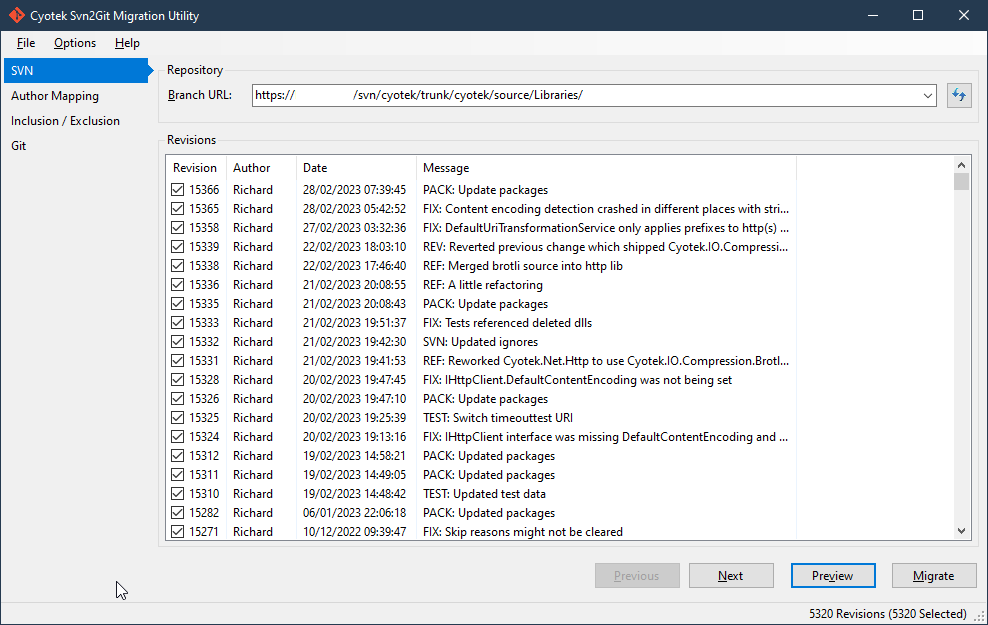
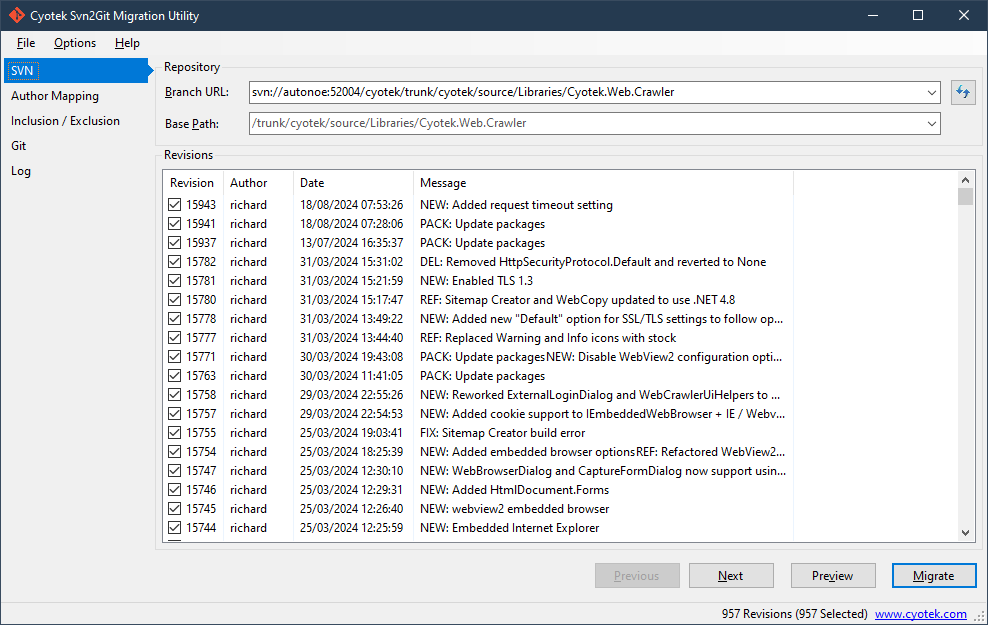
DOCS: Update docs

Changed region(s): [[0.1518, 0.0912, 1.0, 0.9424], [0.7287, 0.9728, 1.0, 1.0], [0.0, 0.2736, 0.0304, 0.304]]

diff --git a/lib/Properties/AssemblyInfo.cs b/lib/Properties/AssemblyInfo.cs
@@ -4,7 +4,7 @@ using System.Runtime.InteropServices;
 
 // Cyotek Svn2Git Migration Utility
 
-// Copyright © 2020-2021 Cyotek Ltd. All Rights Reserved.
+// Copyright © 2020-2024 Cyotek Ltd. All Rights Reserved.
 
 // This work is licensed under the MIT License.
 // See LICENSE.TXT for the full text
@@ -17,11 +17,11 @@ using System.Runtime.InteropServices;
 [assembly: AssemblyConfiguration("")]
 [assembly: AssemblyCompany("Cyotek Ltd")]
 [assembly: AssemblyProduct("Cyotek Svn2Git Migration Utility")]
-[assembly: AssemblyCopyright("Copyright © 2020-2021 Cyotek Ltd. All Rights Reserved.")]
+[assembly: AssemblyCopyright("Copyright © 2020-2024 Cyotek Ltd. All Rights Reserved.")]
 [assembly: AssemblyTrademark("")]
 [assembly: AssemblyCulture("")]
 [assembly: ComVisible(false)]
 [assembly: Guid("df362cb6-2996-4ff3-afc2-dfcef44ed384")]
 [assembly: CLSCompliant(true)]
 [assembly: AssemblyVersion("1.0.0.0")]
-[assembly: AssemblyFileVersion("1.0.1.0")]
+[assembly: AssemblyFileVersion("1.0.2.0")]

diff --git a/README.md b/README.md
@@ -1,22 +1,27 @@
 # Cyotek Svn2Git Migration Utility
 
 This repository hosts a naive utility for creating a Git
-repository from an existing SVN folder, making it useful for
+repository from an existing SVN tree, making it useful for
 breaking a mono SVN Repository into smaller Git repositories.
 
 > This tool is a work in progress that I did for breaking up my
 > own repository. It may not work for all cases, for example if
 > root folders were renamed or moved.
 >
-> It has only received limited testing and is provided AS-IS
+> It has only received limited testing and is provided AS-IS.
 
 ## How does it work?
 
 In the simplest fashion possible - you give it a location in
-SVN, it will enumerate the revisions in that location and will
-check each one out in reverse order and check them into a Git
-repository with the appropriate date, author and log
-information. That is it, nothing fancy.
+SVN, it will enumerate the revisions in that location (and its
+sub folders) and will check each one out in reverse order and
+commit them into a Git repository with the appropriate date,
+author and log information. That is it, nothing fancy.
+
+You are able to specify glob patterns for file includes and
+excludes, which can be useful if you want to exclude files
+originally accidentally committed, or that you simply don't want
+in the new repository.
 
 The code is a little messy, I did start to break it up into more
 reusable and testable components but this work is ongoing.
@@ -27,8 +32,50 @@ reusable and testable components but this work is ongoing.
 
 * Enter the URL of the _remote_ SVN path you want to migrate.
   This will then list all revisions associated with that
-  location
-* Select the revisions you wish to migrate
+  location.
+* Optionally, enter the base path for matching files in the
+  commit, or leave blank to use the auto detected value.
+* Select the revisions you wish to migrate. Revisions that are
+  greyed out have no files matching the base path expression.
+
+> Context-click the list view for **Select All**, **Select
+> None** and **Invert** options.
+
+### More on the Base Path
+
+The migration utility can't tell what files are "affected", and
+so makes a best guess based on the auto detected base path. This
+may not always be appropriate. For example, the below screenshot
+shows some of the files from a very early commit to
+`/cyotek/trunk/cyotek/source/Libraries/Cyotek.Web.Crawler`, but
+not that the path starts with `/trunk/checkout` not
+`/trunk/cyotek` and so these files are ignored.
+
+![An example of an old commit with different paths][basepath1]
+
+> To view the files in a revision, context-click a revision and
+> choose **File List...** from the menu.
+
+Consider a new commit where the paths do match.
+
+![An example of a commit with correct paths][basepath2]
+
+The migration utility allows the base path to be specified, and
+to handle scenarios such as the above it allows glob expressions
+to be used. For example, all files from the two lists above
+could be captured with either of the following patterns.
+
+* `/**/Libraries/Cyotek.Web.Crawler/**/*`
+* `/trunk/checkout/source/Libraries/Cyotek.Web.Crawler/|/trunk/cyotek/source/Libraries/Cyotek.Web.Crawler/`
+
+In the case of the latter pattern, the migration utility will
+automatically add `**/*` to patterns that don't include any glob
+characters.
+
+The revisions list "greys out" any revisions where no files were
+matched, providing a visual clue that something is amiss.
+
+![A mix of revisions][basepath3]
 
 ## Mapping Authors
 
@@ -58,7 +105,7 @@ be excluded.
 
 For example, if you had a folder named `/src/Scratch` in your
 repository which you didn't want migrated, then you could enter
-the glob `/**/Scratch` to the exclusion list.
+the glob `/**/Scratch/**/*` to the exclusion list.
 
 > Don't use backslashes in globs, the migration tool will
 > automatically handle conversion from Windows paths.
@@ -74,9 +121,19 @@ the **Use existing repository** option is unchecked.
 
 If you want to append the commits to an existing repository,
 ensure the folder points to the existing repository and check
-the **Use existing repository option**. This can be useful if you
-are having to build a Git repository from multiple sources, e.g.
-if a root folder was renamed or moved.
+the **Use existing repository option**. This can be useful if
+you are having to build a Git repository from multiple sources,
+e.g. if a root folder was renamed or moved.
+
+You can also customise the template used to generate commit
+messages. Templates are in [Scriban][scriban] format, with the
+following variables available:
+
+* `log` - the SVN log message
+* `author` - the SVN author
+* `revision` - the revision ID
+* `timestamp` - the commit timestamp
+* `repository_uri` - the URI of the SVN commit
 
 ## Preview
 
@@ -89,18 +146,16 @@ matched files. This can be very useful to make sure you have
 your patterns set right, and also to review file lists in case
 you see something that needs adding to the exclusions.
 
-> Note that this isn't bullet proof, for example in my testing
-> it didn't show a large number of files from an initial
-> migration into SVN from SourceSafe.
-
 ## Migrate
 
-![Selecting the Git Repository][step6]
+![Performing a migration][step6]
 
 Click the **Migrate** button to start the process. For each
 selected revision, this tool will check that out, sync the
 contents with the Git repository (honoring include/exclude
 rules), then perform a commit.
+
+This may take some time to perform.
 
 [step1]: res/step1.png
 [step2]: res/step2.png
@@ -108,3 +163,7 @@ rules), then perform a commit.
 [step4]: res/step4.png
 [step5]: res/step5.png
 [step6]: res/step6.png
+[basepath1]: res/basepath1.png
+[basepath2]: res/basepath2.png
+[basepath3]: res/basepath3.png
+[scriban]: https://github.com/scriban/scriban?tab=readme-ov-file#documentation

diff --git a/CHANGELOG.md b/CHANGELOG.md
@@ -2,6 +2,42 @@
 
 ## Change Log
 
+### 1.5
+
+#### Added
+
+* Add new Base Path option, allowing the base path used to match
+  change sets to be configured, in case the auto detection is
+  invalid. Can also support glob patterns.
+* Added new Commit Message Template option, allowing the git
+  commit messages to be customised to include details such as
+  revision ID or branch URL.
+
+#### Changed
+
+* The Git Repository Path is now a MRU.
+* Revisions that won't result in a commit are now greyed out.
+  Note that this only works from the initial base path, _not_
+  custom includes excludes defined at a later step.
+* File names in log messages are no longer trimmed.
+* Log messages are now displayed in a separate tab.
+* Updated packages to latest stable version.
+* A log entry is now written if the preview doesn't find any
+  results (e.g. bad include/excludes).
+
+#### Fixed
+
+* Auto detection of base path didn't work correctly via the SVN
+  protocol (speculation, it could just be that it is nothing to
+  do with the protocol and more the server setup!).
+* Leading and trailing whitespace removed from SVN commit
+  messages.
+* When generating a preview, validation checks on the output
+  folder are no longer performed.
+* Cancelling an operation could cause another crash attempting
+  to read the result.
+* Minor, probably unnoticeable, performance tweaks.
+
 ### 1.4
 
 #### Added
@@ -10,8 +46,8 @@
 
 #### Fixed
 
-* Includes and excludes weren't correctly processing, meaning entire commits
-  could be incorrectly excluded
+* Includes and excludes weren't correctly processing, meaning
+  entire commits could be incorrectly excluded
 
 ### 1.3
 
